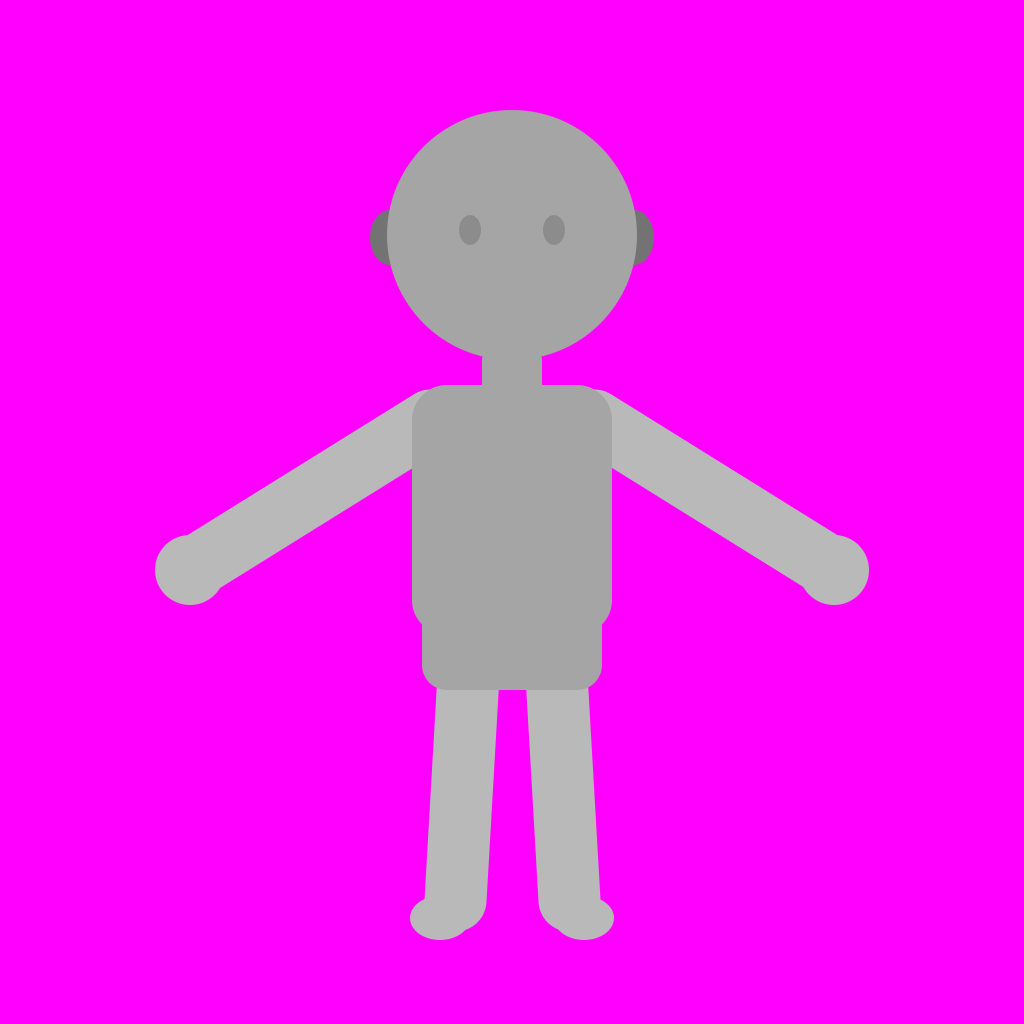
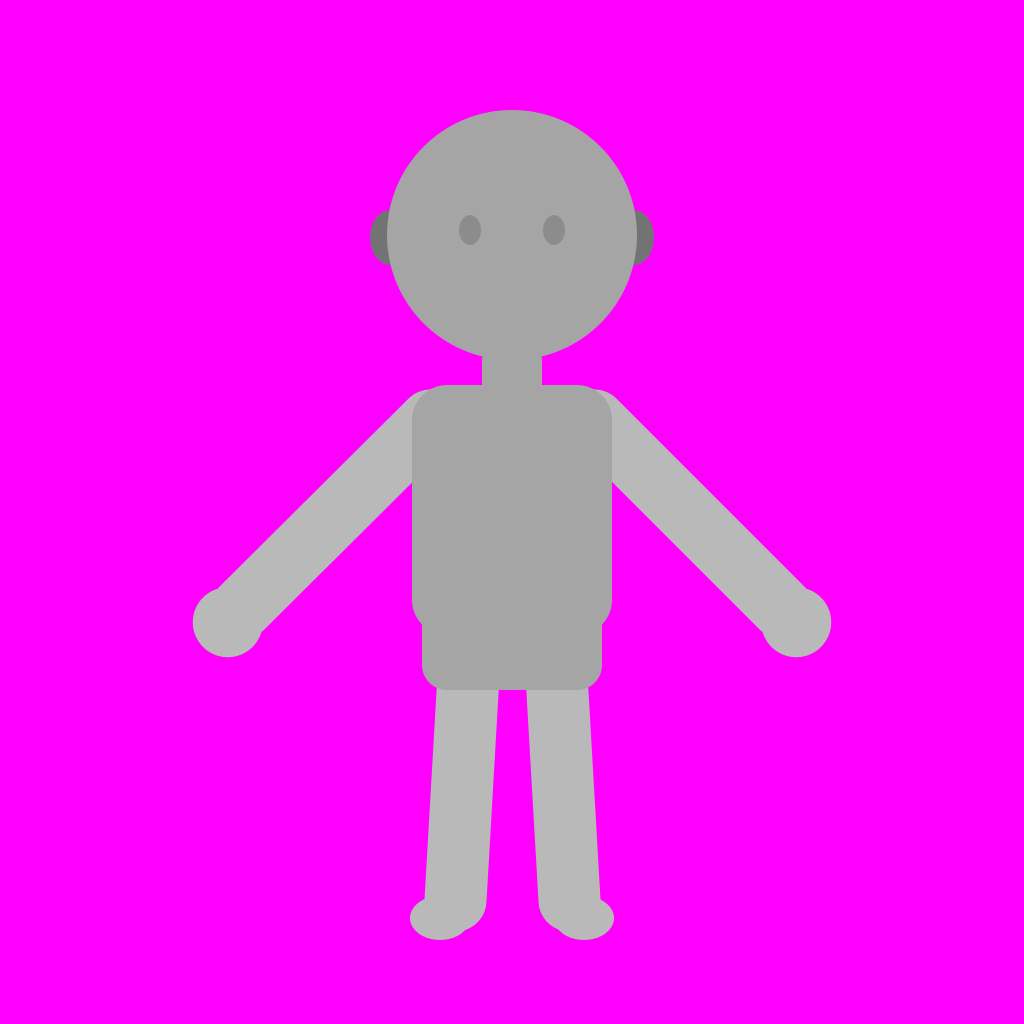
Mẫu trực diện dáng chữ A 45° (mannequin có tham số góc tay, rig_front.csv tính lại khớp, prompt view_front); gemini_gen dừng ngay khi gặp 402 hết tiền trả trước

diff --git a/tools/src/main/kotlin/com/example/storyrig/tools/Mannequin.kt b/tools/src/main/kotlin/com/example/storyrig/tools/Mannequin.kt
@@ -14,10 +14,11 @@ import javax.imageio.ImageIO
 /**
  * Grey pose mannequins on magenta that Gemini copies the pose and framing from (one per view). Same body sizes as
  * rig_3q_right.png (1024 px square, child proportions, arms ~30 degrees below horizontal, legs apart), so every view
- * of a character comes out at the same scale.
- *   mannequin front|back <out.png>
+ * of a character comes out at the same scale. [armDeg]: the arms' angle below horizontal, same length at any angle;
+ * 45 is the A-pose (shoulders deform naturally when the arms come down, see rig_front.png), 32 the older templates.
+ *   mannequin front|back <out.png> [armDeg]
  */
-internal fun drawMannequin(view: String, out: File) {
+internal fun drawMannequin(view: String, out: File, armDeg: Double = 32.0) {
     val s = 1024
     val img = BufferedImage(s, s, BufferedImage.TYPE_INT_RGB)
     val g = img.createGraphics()
@@ -29,8 +30,10 @@ internal fun drawMannequin(view: String, out: File) {
     for (side in listOf(-1, 1)) {
         limb(g, limb, cx + side * 42, 640.0, cx + side * 57, 900.0, 31.0)
         foot(g, limb, cx + side * 66, 918.0, side)
-        limb(g, limb, cx + side * 82, 420.0, cx + side * 307, 560.0, 31.0)
-        g.color = limb; g.fill(Ellipse2D.Double(cx + side * 322 - 35, 570.0 - 35, 70.0, 70.0))
+        // Arm 265 px from (82, 420) off the centre line, hand circle 21 px further on.
+        val ax = Math.cos(Math.toRadians(armDeg)); val ay = Math.sin(Math.toRadians(armDeg))
+        limb(g, limb, cx + side * 82, 420.0, cx + side * (82 + 265 * ax), 420 + 265 * ay, 31.0)
+        g.color = limb; g.fill(Ellipse2D.Double(cx + side * (82 + 286 * ax) - 35, 420 + 286 * ay - 35, 70.0, 70.0))
     }
     g.color = body
     g.fill(RoundRectangle2D.Double(cx - 100, 385.0, 200.0, 250.0, 70.0, 70.0))

diff --git a/tools/src/main/kotlin/com/example/storyrig/tools/KaiCut.kt b/tools/src/main/kotlin/com/example/storyrig/tools/KaiCut.kt
@@ -38,7 +38,7 @@ fun main(args: Array<String>) {
             cutAuto(File(args[1]), File(args[2]), File(args[3]), compareKai = v == "kai", view = if (v == "front" || v == "back") v else "3q")
         }
         "autotest" -> autoTest(File(args[1]), File(args[2]))
-        "mannequin" -> drawMannequin(args[1], File(args[2]))
+        "mannequin" -> drawMannequin(args[1], File(args[2]), args.getOrNull(3)?.toDouble() ?: 32.0)
         "selftest" -> if (!selfTest(File(args.getOrNull(1) ?: "tools/build/selftest"))) kotlin.system.exitProcess(1)
         "facetest" -> faceLayoutTest(File(args[1]), File(args[2]))
         else -> println("usage: scan <sheet.png> <outDir> | build|cutref|cutauto <geminiDir> <outDir> <previewDir> | autotest|facetest <geminiDir> <outRoot>")

diff --git a/tools/gemini_gen.py b/tools/gemini_gen.py
@@ -124,7 +124,8 @@ def cmd_gen(a):
         except urllib.error.HTTPError as e:
             detail = e.read().decode(errors="replace")[:300]
             print(f"attempt {attempt}/{MAX_RETRIES}: HTTP {e.code} {detail}", file=sys.stderr)
-            if e.code in (400, 403) or attempt == MAX_RETRIES:
+            # 400/403: bad request or key; 402: prepaid credits used up. Retrying can't help, it only adds to the count.
+            if e.code in (400, 402, 403) or attempt == MAX_RETRIES:
                 sys.exit(1)
             wait = min(60 * attempt, 180) if e.code == 429 else min(RETRY_DELAY * attempt, 120)
             print(f"waiting {wait}s before retrying", file=sys.stderr)
